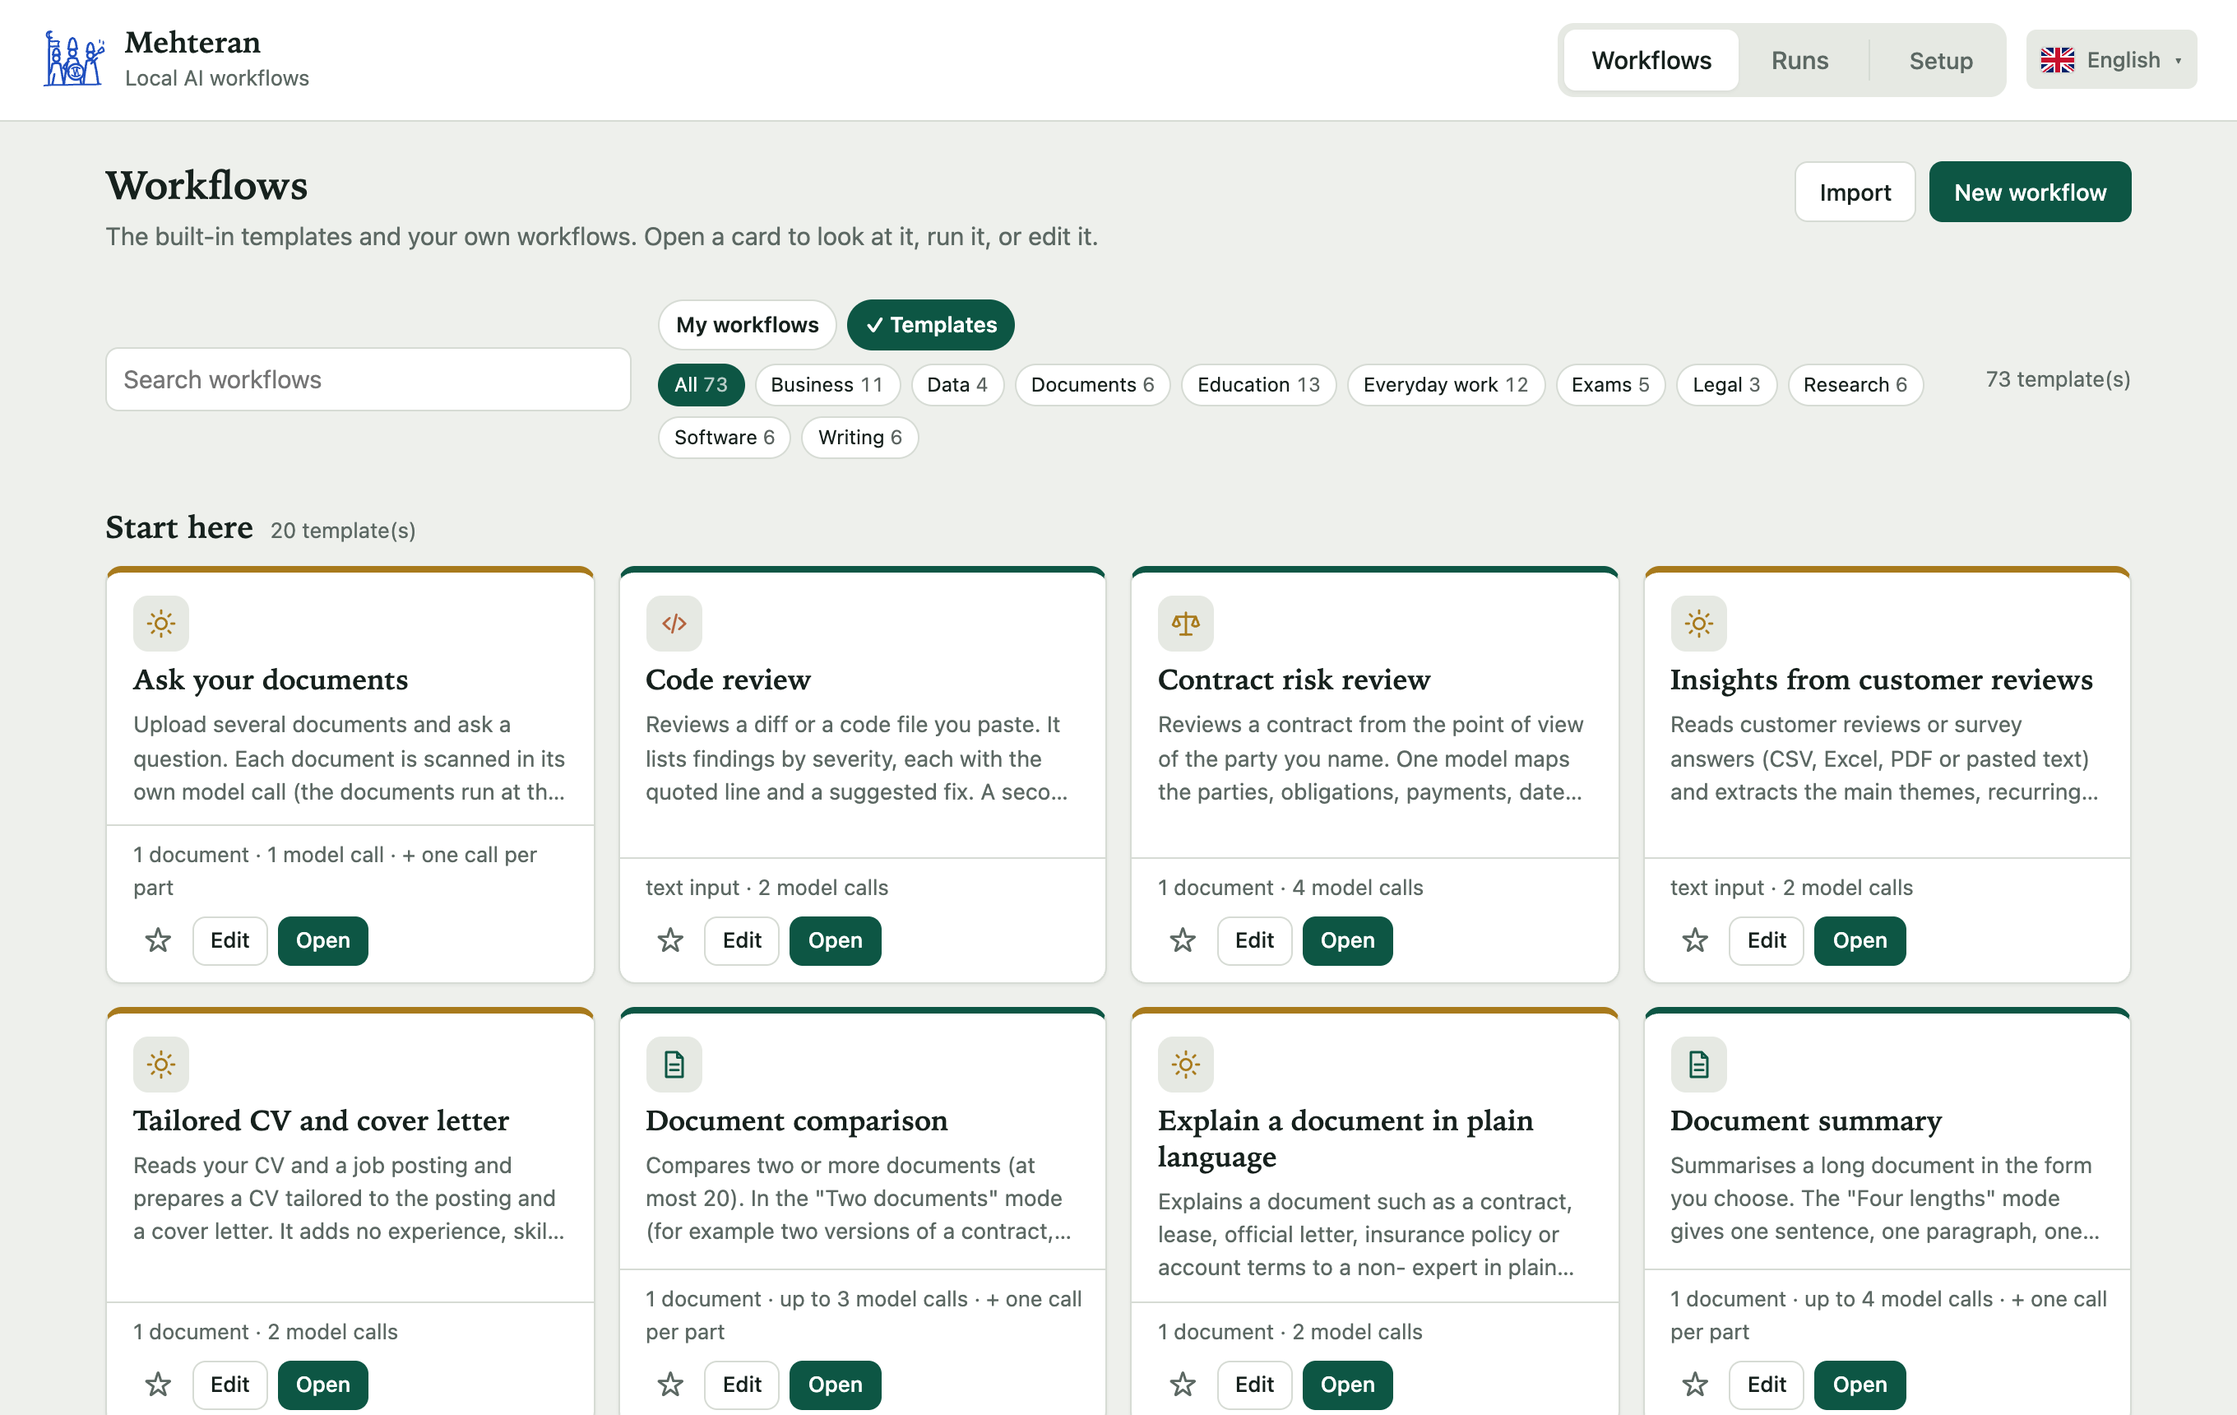
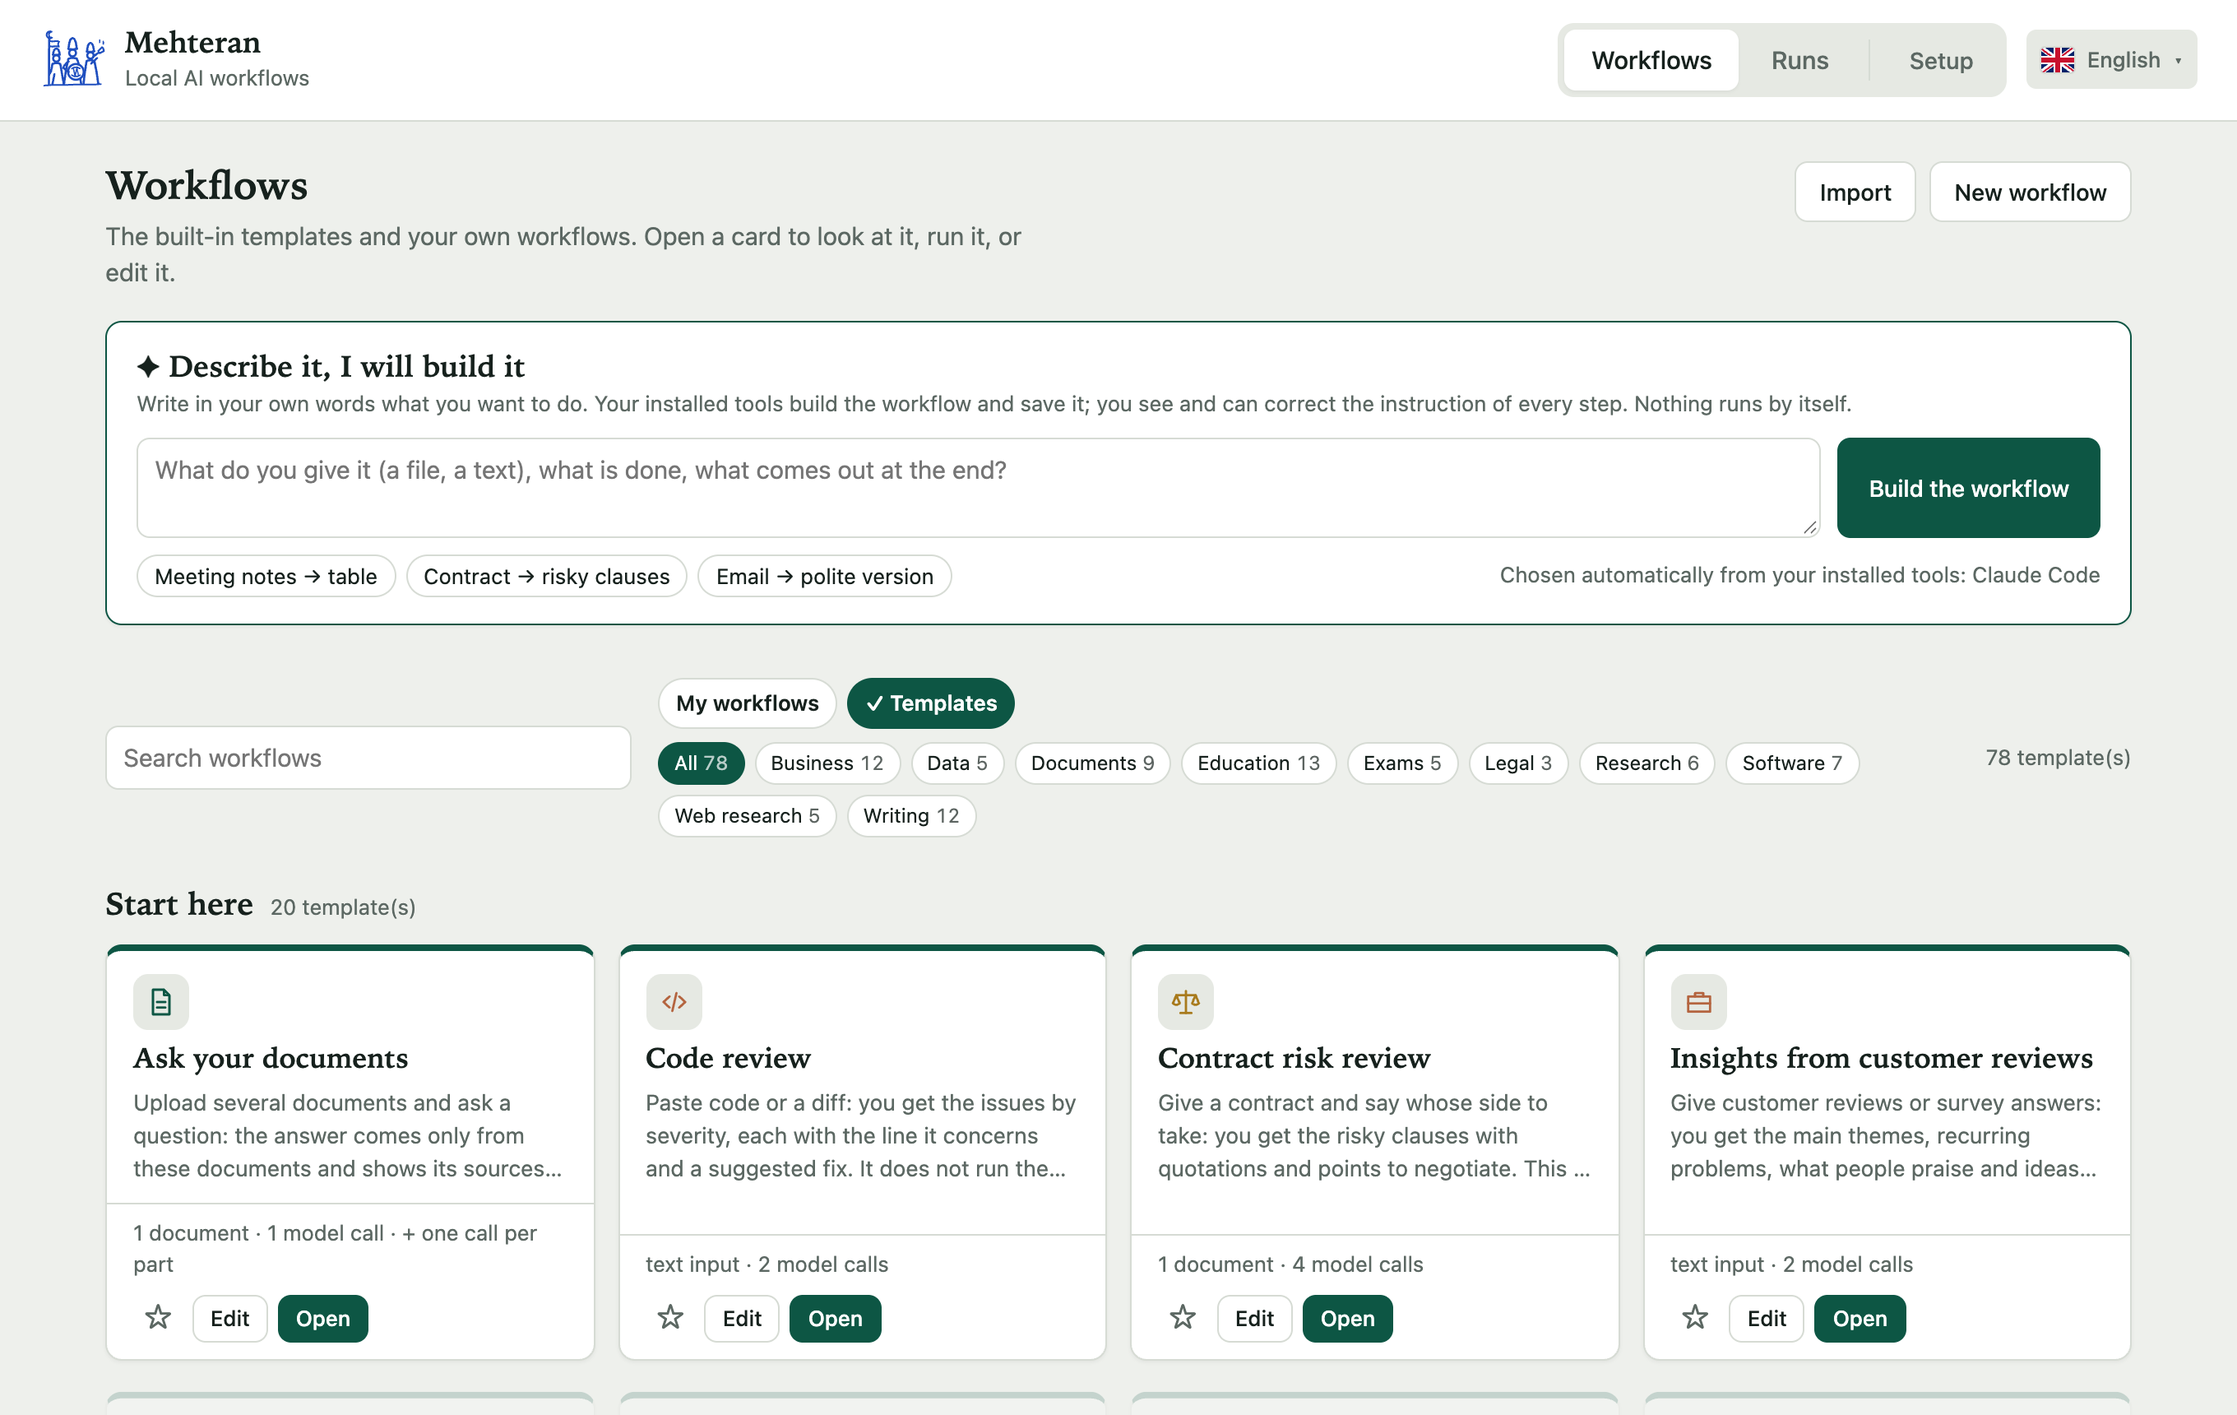
Browser workflows: run without a window, one clear error for local-only, full agent timeout
- Home/car listing and hotel search run their browser headless and work in an
  action budget, so they report before the step's time runs out.
- A browser agent step keeps its own 1800 s timeout; the 1200 s of a model
  call no longer cuts it off (engine.step_timeout).
- "Only models on this computer" is off, with the reason, for workflows with
  a browser agent; the engine gives one clear message instead of two.
- "Model for every step" with another tool leaves a browser agent on
  Claude Code.
- New library screenshots for the site; docs and 18 languages updated.

diff --git a/mehteran/ui/app.js b/mehteran/ui/app.js
@@ -1473,10 +1473,12 @@ function estimateSteps(est) {
 // The run window's privacy choice: "only models on this computer" (a workflow with "privacy: local" always is).
 function privacyField(tpl, estimate) {
   const fixed = Boolean(tpl.model && tpl.model.privacy === "local");
-  const box = h("input", {type: "checkbox", checked: fixed, disabled: fixed, onchange: () => { estimate.privacy = box.checked ? "local" : ""; estimate.refresh(true); }});
+  // A browser agent reads sites with Claude Code: such a workflow cannot keep everything on this computer.
+  const web = !fixed && ((tpl.model && tpl.model.nodes) || []).some((n) => n && n.type === "ai.agent");
+  const box = h("input", {type: "checkbox", checked: fixed, disabled: fixed || web, onchange: () => { estimate.privacy = box.checked ? "local" : ""; estimate.refresh(true); }});
   estimate.privacy = fixed ? "local" : "";
   const row = h("div", {class: "stack privacy-row"}, h("label", {class: "check"}, box, h("span", {}, S("privacy_local_label"))),
-    h("span", {class: "small muted"}, S(fixed ? "privacy_local_fixed" : "privacy_local_hint")));
+    h("span", {class: "small muted"}, S(fixed ? "privacy_local_fixed" : web ? "privacy_local_web" : "privacy_local_hint")));
   row.read = () => (box.checked ? "local" : "");
   return row;
 }

diff --git a/mehteran/engine.py b/mehteran/engine.py
@@ -93,6 +93,18 @@ def new_run_id() -> str:
     return time.strftime("%Y%m%d-%H%M%S") + "-" + secrets.token_hex(3)
 
 
+
+def step_timeout(node: dict, node_type, general: dict) -> int:
+    """Seconds a step may take: its own "timeout", else for a step that calls a model the configured timeout of a
+    call (general.timeout, 1200 s), else its type's default. A type that needs longer than one call (a browser agent:
+    1800 s) never gets less than its own default."""
+    if "timeout" in node:
+        return node["timeout"]
+    if not (node.get("config") or {}).get("provider"):
+        return node_type.default_timeout
+    call = general.get("timeout", 1200)
+    return max(call, node_type.default_timeout) if node_type.default_timeout > 1200 else call
+
 class Engine:
     def __init__(self, home: Path | None = None, provider_cfg: dict | None = None, parallel: int = 4,
                  retry_delay: float = 2.0, quota_delay: float | None = None):
@@ -218,7 +230,8 @@ class Engine:
         An old name becomes the adapter's ("chatgpt" -> "codex"). `auto` kinds take the first usable model of the
         user's model order whose provider has no known usage limit now; the others stay as candidates for a later
         usage limit. privacy "local": `auto` becomes auto:local and any model that does not run here is refused.
-        every_step: this model for every step and every fallback, whatever the workflow sets."""
+        every_step: this model for every step and every fallback, whatever the workflow sets (a browser agent keeps its
+        own model unless every_step is Claude Code or `auto`). privacy "local" refuses a browser agent: it reads sites."""
         cfg = self.provider_cfg
         local_only = privacy == "local"
         auto: dict = {"nodes": {}, "candidates": {}}
@@ -262,7 +275,15 @@ class Engine:
                                                            f"nodes.{node_id}.fallback_provider")
             if isinstance((node.get("config") or {}).get("provider"), str):  # else no model (a plain condition)
                 agent = node["type"] == "ai.agent"
-                providers[node_id] = resolve(every_step or node["config"]["provider"], f"nodes.{node_id}", agent)
+                if agent and local_only:  # it reads sites with Claude Code: one clear reason, not two
+                    problems.append(f"nodes.{node_id}: {t('agent_not_local')}")
+                    providers[node_id] = node["config"]["provider"]
+                    continue
+                # "Model for every step" with another tool leaves a browser agent on its own model (Claude Code)
+                own = node["config"]["provider"]
+                chosen = every_step if every_step and (not agent or every_step in adapters.AUTO
+                                                       or adapters.split(every_step)[0] == "claude") else own
+                providers[node_id] = resolve(chosen, f"nodes.{node_id}", agent)
                 if agent and adapters.split(providers[node_id])[0] != "claude":
                     problems.append(f"nodes.{node_id}: {t('agent_needs_claude', name=providers[node_id])}")
         return providers, auto
@@ -721,9 +742,7 @@ class Engine:
         node = wf.nodes[node_id]
         node_type = REGISTRY[node["type"]]
         retries = node.get("retries", node_type.default_retries)
-        default_timeout = run["provider_cfg"]["general"].get("timeout", 1200) if (node.get("config") or {}).get("provider") \
-            else node_type.default_timeout
-        timeout = node.get("timeout", default_timeout)
+        timeout = step_timeout(node, node_type, run["provider_cfg"]["general"])
         general = run["provider_cfg"]["general"]
         node_dir = self.run_dir(run_id) / "nodes" / node_id
         error = ""

diff --git a/tests/test_mehteran_agent.py b/tests/test_mehteran_agent.py
@@ -17,7 +17,7 @@ sys.path.insert(0, str(Path(__file__).resolve().parent))
 
 from mehteran_support import HomeCase, adapter_cfg, ai, workflow  # noqa: E402
 
-from mehteran import browser, nodes, schema  # noqa: E402
+from mehteran import browser, i18n, nodes, schema  # noqa: E402
 from mehteran.engine import Engine, RunError  # noqa: E402
 from mehteran.providers import ADAPTERS, base  # noqa: E402
 
@@ -87,6 +87,15 @@ class BrowserRulesTests(unittest.TestCase):
         self.assertIn("https://*.doubleclick.net", args[args.index("--blocked-origins") + 1].split(";"))
         self.assertNotIn("--allowed-origins", args)  # not a security boundary; guard() stops the step instead
 
+    def test_an_agent_step_keeps_its_longer_timeout(self):
+        # A browser agent reads many pages: the 1200 s of a model call cut it off before it could write its report.
+        from mehteran.engine import step_timeout
+        agent, cli = nodes.REGISTRY["ai.agent"], nodes.REGISTRY["ai.cli"]
+        self.assertEqual(step_timeout({"config": {"provider": "auto"}}, agent, {"timeout": 1200}), 1800)
+        self.assertEqual(step_timeout({"config": {"provider": "auto"}}, agent, {"timeout": 3000}), 3000)
+        self.assertEqual(step_timeout({"config": {"provider": "auto"}}, cli, {"timeout": 900}), 900)  # the user's own
+        self.assertEqual(step_timeout({"config": {"provider": "auto"}, "timeout": 60}, agent, {}), 60)
+
     def test_the_lock_file_pins_the_version_with_integrity_sums(self):
         lock = json.loads((browser.LOCK_DIR / "package-lock.json").read_text(encoding="utf-8"))
         self.assertEqual(lock["packages"]["node_modules/@playwright/mcp"]["version"], browser.VERSION)
@@ -139,8 +148,12 @@ class AgentRunTests(HomeCase):
         with self.assertRaises(RunError) as caught:
             engine.start(workflow(AGENT.replace("provider: claude", "provider: fake") % "", []))
         self.assertIn("Claude Code", str(caught.exception))
-        with self.assertRaises(RunError):
-            engine.start(workflow(AGENT % "", []), every_step="fake")
+        # "Model for every step" with another tool does not reach the browser agent: it keeps Claude Code
+        self.assertEqual(engine.get(engine.start(workflow(AGENT % "", []), every_step="fake", launch=False))["providers"]["look"], "claude")
+        # only models on this computer: one clear reason (a browser agent reads sites), not two
+        with self.assertRaises(RunError) as caught:
+            engine.start(workflow(AGENT % "", []), privacy="local")
+        self.assertEqual(caught.exception.messages, [f"nodes.look: {i18n.t('agent_not_local')}"])
         run_id = engine.start(workflow(AGENT % "", []))  # "claude" of the test configuration is a plain command
         self.assertEqual(engine.wait(run_id, 30), "failed")
         self.assertIn("Claude Code", engine.get(run_id)["nodes"]["look"]["error"])

diff --git a/docs/mehteran.tr.md b/docs/mehteran.tr.md
@@ -349,7 +349,7 @@ Bir adım nasıl çalışır:
 
 `research-to-x-post` şablonu bunları birleştirir: yalnızca okuyan bir ajan konuyu listelediğiniz sitelerde araştırır, bir model paylaşımı yazar, ikinci bir model onu araştırma notlarına karşı denetler, siz onaylarsınız (bir yorum paylaşımı değiştirir) ve X metinle açılır.
 
-İki şablon daha, siteleri aramak ve bulduklarını karşılaştırmak için yalnızca okuyan bir ajan kullanır. **`listing-search`** (Ev ya da araba ilanı bul): türü (ev ya da araba), satın alma ya da kiralamayı, yeri, istediğiniz özellikleri ve bütçeyi verirsiniz; ajan listelediğiniz ilan sitelerinde (varsayılan olarak sahibinden.com, hepsiemlak.com, emlakjet.com, arabam.com) sitenin kendi filtreleriyle arar, bir model karşılaştırma tablosunu yazar (istenen her özellik ✓, ✗ ya da ?, en uygunu önce, ilan bağlantılarıyla) ve ikinci bir model her ilanı ajanın notlarına karşı denetler. **`stay-search`** (Konaklama bul): yeri, giriş ve çıkış tarihlerini, kişileri, bütçeyi ve isteklerinizi verirsiniz; ajan listelediğiniz otel sitelerinde (varsayılan olarak booking.com, hotels.com, etstur.com, trivago.com.tr) bu tarihler ve kişiler için arar; karşılaştırma toplam ve gecelik fiyatı, puanı, kahvaltıyı ve iptal koşullarını verir. İkisi de rezervasyon yapmaz, oturum açmaz, kimseyle iletişime geçmez; fiyatlar aramanın yapıldığı andakidir. Oturum açmayı isteyen, captcha gösteren ya da ajanı engelleyen bir site raporda adıyla yazılır; oraya kendiniz bakabilirsiniz.
+İki şablon daha, siteleri aramak ve bulduklarını karşılaştırmak için yalnızca okuyan bir ajan kullanır. **`listing-search`** (Ev ya da araba ilanı bul): türü (ev ya da araba), satın alma ya da kiralamayı, yeri, istediğiniz özellikleri ve bütçeyi verirsiniz; ajan listelediğiniz ilan sitelerinde (varsayılan olarak sahibinden.com, hepsiemlak.com, emlakjet.com, arabam.com) sitenin kendi filtreleriyle arar, bir model karşılaştırma tablosunu yazar (istenen her özellik ✓, ✗ ya da ?, en uygunu önce, ilan bağlantılarıyla) ve ikinci bir model her ilanı ajanın notlarına karşı denetler. **`stay-search`** (Konaklama bul): yeri, giriş ve çıkış tarihlerini, kişileri, bütçeyi ve isteklerinizi verirsiniz; ajan listelediğiniz otel sitelerinde (varsayılan olarak booking.com, hotels.com, etstur.com, trivago.com.tr) bu tarihler ve kişiler için arar; karşılaştırma toplam ve gecelik fiyatı, puanı, kahvaltıyı ve iptal koşullarını verir. İkisi de tarayıcıyı pencere açmadan çalıştırır. İkisi de rezervasyon yapmaz, oturum açmaz, kimseyle iletişime geçmez; fiyatlar aramanın yapıldığı andakidir. Oturum açmayı isteyen, captcha gösteren ya da ajanı engelleyen bir site raporda adıyla yazılır; oraya kendiniz bakabilirsiniz. Tarayıcı ajanı olan bir iş akışı her şeyi bu bilgisayarda tutamaz: "Yalnızca bu bilgisayardaki modeller" kutusu kapalıdır ve nedenini yazar; "Tüm adımlar için model"de başka bir araç seçmek ajanı Claude Code'da bırakır.
 
 ## Zamanlanmış çalıştırmalar ve arka planda çalışma
 

diff --git a/docs/mehteran.md b/docs/mehteran.md
@@ -349,7 +349,7 @@ How a step runs:
 
 The template `research-to-x-post` puts these together: a read-only agent researches the topic on the sites you list, a model writes the post, a second model checks it against the research notes, you approve it (a comment changes the post), and X opens with the text.
 
-Two more templates use a read-only agent to search sites and compare what they find. **`listing-search`** (Find home or car listings): you give the kind (home or car), buy or rent, the location, the features you want and a budget; the agent searches the listing sites you list (by default sahibinden.com, hepsiemlak.com, emlakjet.com, arabam.com) with their own filters, a model writes a comparison table (each wanted feature ✓, ✗ or ?, the best match first, links to the listings), and a second model checks every listing against the agent's notes. **`stay-search`** (Find a place to stay): you give the place, the check-in and check-out dates, the guests, a budget and your wishes; the agent searches the hotel sites you list (by default booking.com, hotels.com, etstur.com, trivago.com.tr) for those dates and guests, and the comparison gives the total and nightly prices, rating, breakfast and cancellation terms. Neither books, signs in or contacts anyone; prices are those of the moment of the search. A site that asks for a sign-in, shows a captcha or blocks the agent is named in the report, so that you can look there by hand.
+Two more templates use a read-only agent to search sites and compare what they find. **`listing-search`** (Find home or car listings): you give the kind (home or car), buy or rent, the location, the features you want and a budget; the agent searches the listing sites you list (by default sahibinden.com, hepsiemlak.com, emlakjet.com, arabam.com) with their own filters, a model writes a comparison table (each wanted feature ✓, ✗ or ?, the best match first, links to the listings), and a second model checks every listing against the agent's notes. **`stay-search`** (Find a place to stay): you give the place, the check-in and check-out dates, the guests, a budget and your wishes; the agent searches the hotel sites you list (by default booking.com, hotels.com, etstur.com, trivago.com.tr) for those dates and guests, and the comparison gives the total and nightly prices, rating, breakfast and cancellation terms. Both run their browser without a window. Neither books, signs in or contacts anyone; prices are those of the moment of the search. A site that asks for a sign-in, shows a captcha or blocks the agent is named in the report, so that you can look there by hand. A workflow with a browser agent cannot keep everything on this computer: its "Only models on this computer" box is off and says why, and "Model for every step" with another tool leaves the agent on Claude Code.
 
 ## Scheduled runs and running in the background
 
